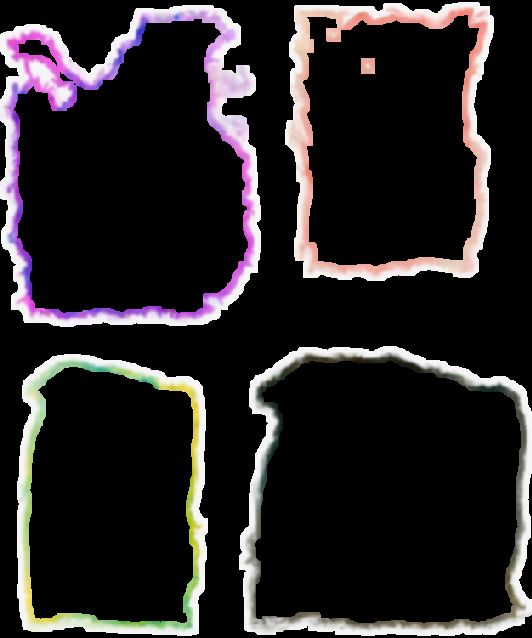
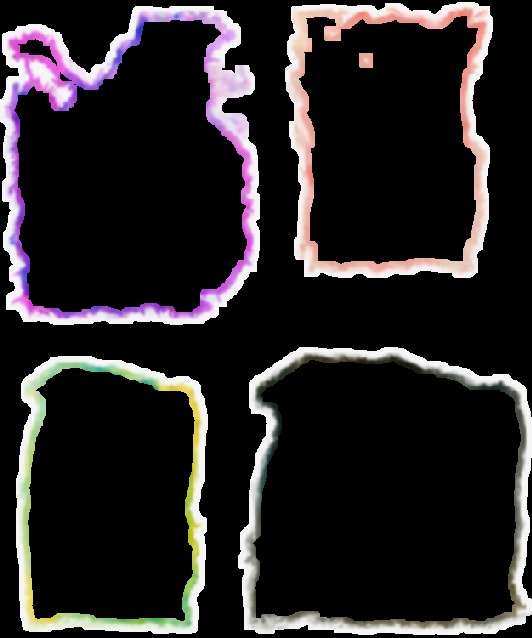
better search

diff --git a/cult.cpp b/cult.cpp
@@ -237,18 +237,12 @@ Image Cult::processFrame(int frameNum, const Image& prevOutput){
             seedNNF = &upscaled;
         }
 
-<<<<<<< HEAD
         const VectorField vecField = m_vectorFields[frameNum];
-        prevNNF = Patchmatch::run_patchmatch(currentResult, cur_source, targetBoundaryMask, sourceBoundaryMask, vecField,
-                                             PATCH_RADIUS, PATCHMATCH_ITERATIONS, seedNNF);
-
-        output_frame = vote(currentResult, cur_source, prevNNF);
-=======
         int patchRadius = effectivePatchRadius(currentResult, cur_source, PATCH_RADIUS);
-        prevNNF = Patchmatch::run_patchmatch(currentResult, cur_source, targetBoundaryMask, sourceBoundaryMask,
+        prevNNF = Patchmatch::run_patchmatch(currentResult, cur_source, targetBoundaryMask, sourceBoundaryMask, vecField,
                                              patchRadius, PATCHMATCH_ITERATIONS, seedNNF);
+
         output_frame = vote(currentResult, cur_source, prevNNF, patchRadius);
->>>>>>> origin/main
         currentResult = output_frame;
 
         QString dbgPath = QString("../color-me-noisy/debug_pyramid/framepyramid_dbg_level_%1.png").arg(level);
@@ -262,31 +256,20 @@ Image Cult::processFrame(int frameNum, const Image& prevOutput){
 
 }
 
-// Image Cult::patchmatch(const Image& target, const Image& source){
-//     Image output_image;
+Image Cult::patchmatch(const Image& target, const Image& source){
+    Image output_image;
 
-<<<<<<< HEAD
-//     //std::cout<<"Running Patchmatch"<<std::endl;
-//     std::vector<bool> targetBoundaryMask = Patchmatch::createEdgeMask(target);
-//     std::vector<bool> sourceBoundaryMask = Patchmatch::createEdgeMask(source);
-//     NNF nnf = Patchmatch::run_patchmatch(target, source, targetBoundaryMask, sourceBoundaryMask,
-//                                          PATCH_RADIUS, PATCHMATCH_ITERATIONS);
-//     output_image = vote(target, source, nnf);
-//     //std::cout<<"Finished Patchmatch and Voting"<<std::endl;
-//     return output_image;
-// }
-=======
     //std::cout<<"Running Patchmatch"<<std::endl;
     std::vector<bool> targetBoundaryMask = Patchmatch::createEdgeMask(target);
     std::vector<bool> sourceBoundaryMask = Patchmatch::createEdgeMask(source);
     int patchRadius = effectivePatchRadius(target, source, PATCH_RADIUS);
-    NNF nnf = Patchmatch::run_patchmatch(target, source, targetBoundaryMask, sourceBoundaryMask,
+    VectorField vecField(target.width * target.height, std::vector<float>(3, 1.f));
+    NNF nnf = Patchmatch::run_patchmatch(target, source, targetBoundaryMask, sourceBoundaryMask, vecField,
                                          patchRadius, PATCHMATCH_ITERATIONS);
     output_image = vote(target, source, nnf, patchRadius);
     //std::cout<<"Finished Patchmatch and Voting"<<std::endl;
     return output_image;
 }
->>>>>>> origin/main
 
 Image Cult::vote(const Image& target, const Image& source, NNF& nnf, int patchRadius){
     Image processed_frame = target;
@@ -594,4 +577,3 @@ std::vector<VectorField> Cult::createVectorFields(const std::vector<Image>& fram
     return allFields;
 
 }
-

diff --git a/patchmatch.cpp b/patchmatch.cpp
@@ -384,8 +384,20 @@ void Patchmatch::randomSearch(int x, int y, const Image& target, const Image& so
     while(radius > 1){
         int trials = requireBoundary ? BOUNDARY_RANDOM_SEARCH_TRIALS : RANDOM_SEARCH_TRIALS;
         for(int attempt = 0; attempt < trials; attempt++){
-            int cx = std::clamp(bestX + (int)(distX(localRng)*radius), patchRadius, source.width-1-patchRadius);
-            int cy = std::clamp(bestY + (int)(distY(localRng)*radius), patchRadius, source.height-1-patchRadius);
+            int minX = std::max(patchRadius, bestX - radius);
+            int maxX = std::min(source.width - 1 - patchRadius, bestX + radius);
+            int minY = std::max(patchRadius, bestY - radius);
+            int maxY = std::min(source.height - 1 - patchRadius, bestY + radius);
+
+            if(minX > maxX || minY > maxY){
+                continue;
+            }
+
+            std::uniform_int_distribution<int> searchX(minX, maxX);
+            std::uniform_int_distribution<int> searchY(minY, maxY);
+
+            int cx = searchX(localRng);
+            int cy = searchY(localRng);
 
             if(!isAllowedSourcePatch(source, sourceBoundaryMask, cx, cy, patchRadius, requireBoundary)){
                 continue;
